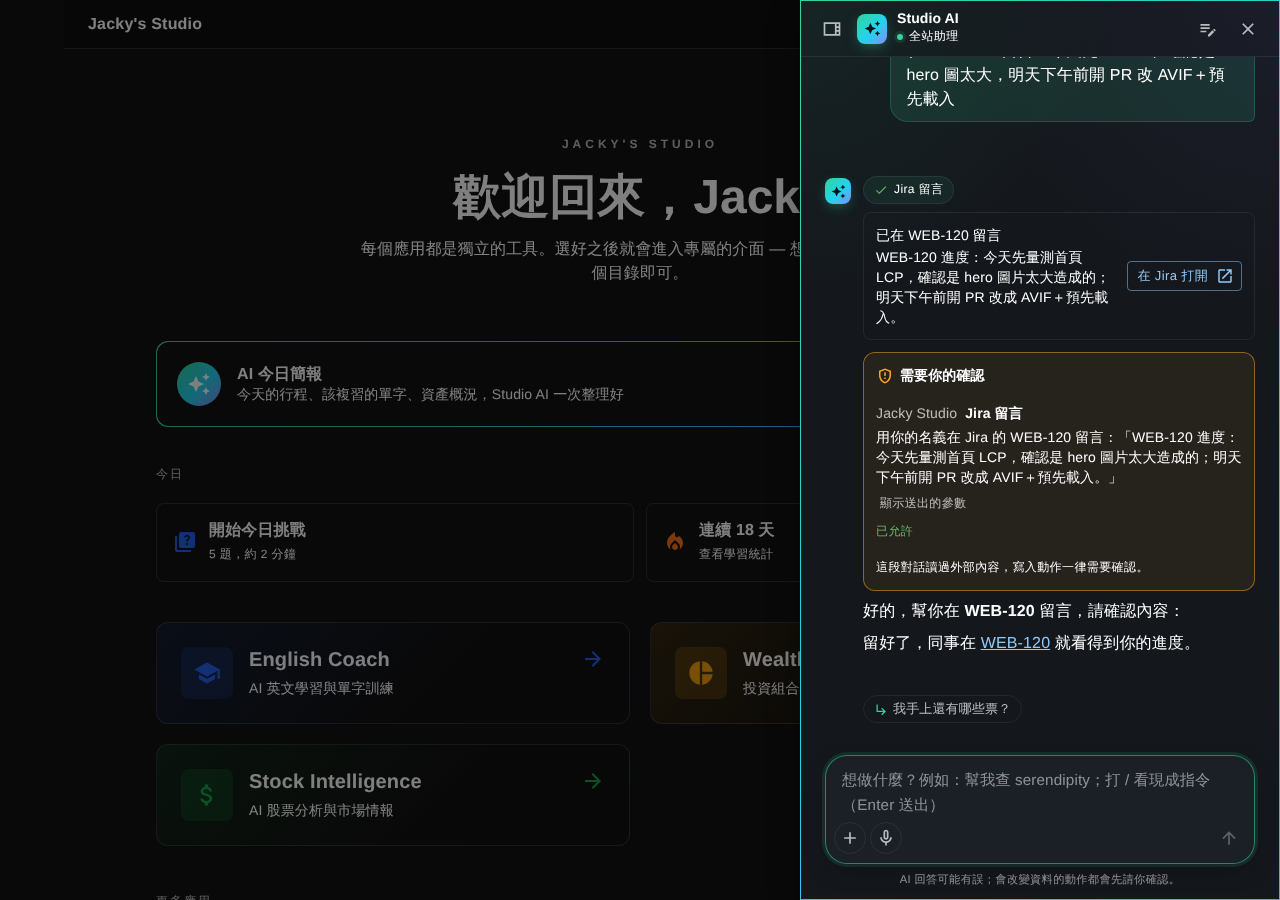
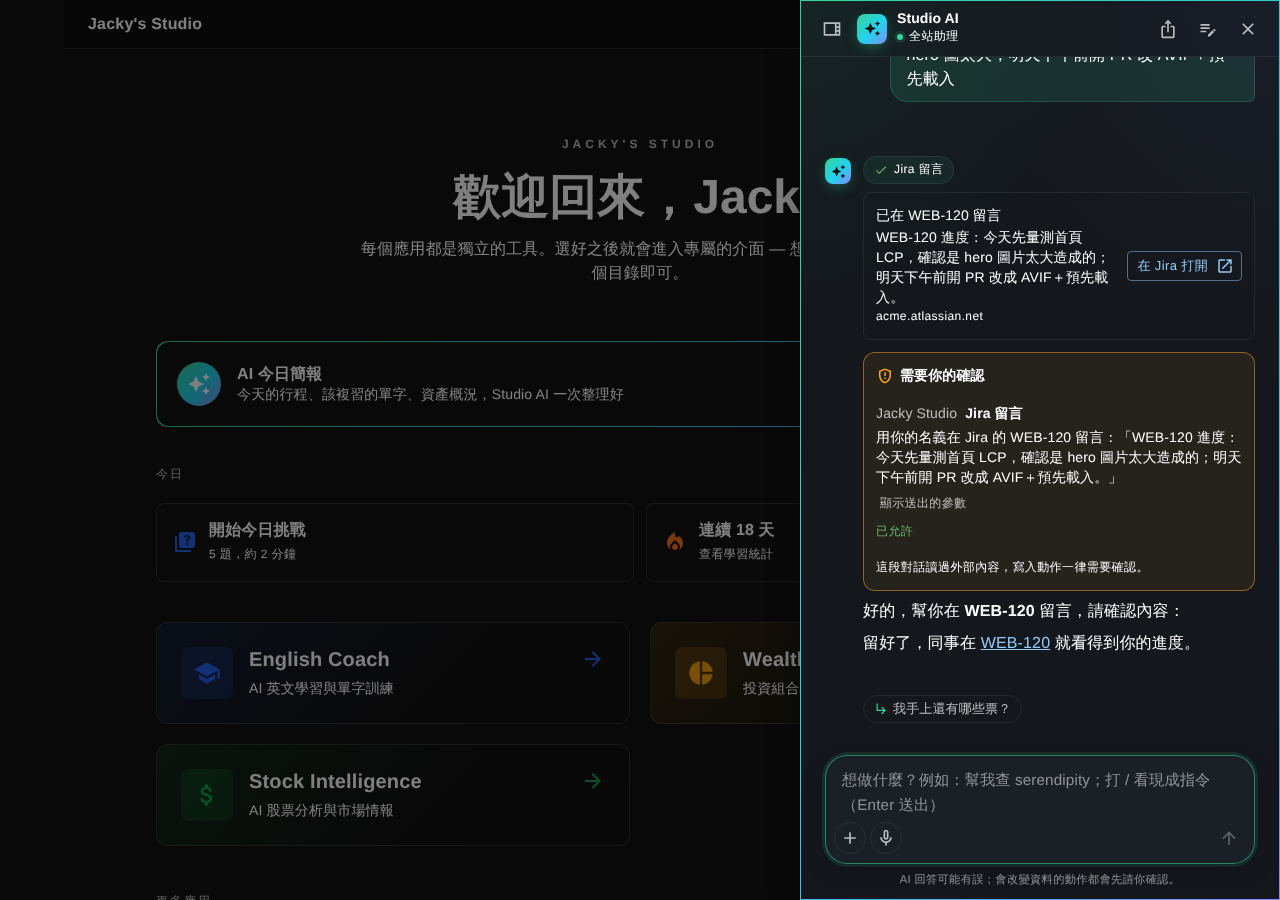
docs(ai-native): D-161、SHOWCASE 第 43 輪、Jira 留言完成的截圖（連結卡片寫出主機）[skip ci]
Claude-Session: https://claude.ai/code/session_01DgXGTtQbv58SJ4y6aMH7fz

Changed region(s): [[0.625, 0.1556, 0.9688, 0.3733], [0.6875, 0.0622, 0.9688, 0.1244]]

diff --git a/docs/ai-native/DECISIONS.md b/docs/ai-native/DECISIONS.md
@@ -163,3 +163,4 @@
 - **D-158（2026-10-27 14:00）第四次合併前巡檢：上傳檔案與 chat 附件（第 42 輪）**：subagent 唯讀。九項裡六項是 master 既有的。已修：(1) 高：**Word／Excel 附件可讓伺服器記憶體爆掉**——xlsx 一格的位置寫 `ZZZZZZ1`（第 3.2 億欄），補齊空格就要 1 GB 以上；zip 解開後的 XML 部分沒有上限（10 MB 的檔可解成好幾 GB）。改成 `OpenSettings.MaxCharactersInPart` 1600 萬字（超過＝讀不出）、超過 XFD（16,384 欄）的儲存格不收、讀到 `MaxChars` 多一點就停（仍標「已截斷」）。(2) 高：**chat 訊息沒有長度上限**——訊息先存才問模型，Anthropic 拒絕太長的請求會退款，但訊息留在 DB，幾十次就能把 Basic 的 2 GB 灌滿，那個對話也再也答不了。改成 `ChatbotController.MaxMessageLength` 2 萬字（UTF-16，跟前端 `length` 一樣）、請求 1 MB，超過在計費前回 400；前端輸入框與編輯框超過時說「訊息太長（N／20,000 字），長文請存成文字檔附加」並不送出（`messageTooLongNote`，測試讀 `ChatbotController.cs` 鎖住同一個數字）。2 萬字約 10 頁，貼長文用附件（會截在 10 萬字）。(3) 高：**匿名的 /data-analysis 上傳**只用 Content-Length 擋，32 MB 的 `{},{},…` 讀成約 1 GB 的物件，之後 `Measure` 才量。改成 `SessionRowsJsonConverter` 邊讀邊用 `Measure` 的同一套估法，超過 `SessionUploadOptions.MaxReadBytes`（128 MB，預設單次上限的兩倍）就是 JSON 錯誤（400）；其他讀法跟預設一樣（null 保留、同名取最後一個）。(4) 中：chat 附件上傳沒有頻率限制 → `chat-attachment-upload` 每人每分鐘 20 次；(5) 中：匿名的 PDF 解鎖沒有頻率限制 → `pdf-unlock` 每個位址每分鐘 10 次。**不改（記在 NEXT）**：Whisper 轉錄一次 1 單位不論長度（要加大小上限＋前端錄音長度上限，會動到考試 UX）；匿名上傳共用 256 MB 預算可被一個人用完 2 小時（要做每人上限與刪除 session，動到既有設計）；PDF 頁數由檔案的 `/Count` 決定（未驗證、Anthropic 每次最多 100 頁）；附件文字不 taint 對話（D-083 的既有決定：附件是使用者自己選的；`remember` 仍一定問）。
 - **D-159（2026-10-27 16:10）巡檢未修的兩個中風險（第 43 輪）**：(1) **錄音轉文字**：Whisper 依分鐘計費、上限 25 MB，但一次只收 1 單位，低位元率的檔可以是好幾小時。改成伺服器 `ConversationPracticeController.MaxAudioBytes` 4 MB（`[RequestSizeLimit]`＋動作內再檢查，在呼叫 Whisper 前 400；審查確認 body 太大時 `[ApiController]` 的 model state 先回 400，`[UsageLimit]` 根本沒收費），前端 `useVoiceRecording` 以 64 kbps 錄（`RECORDING_BITS_PER_SECOND`）、120 秒自動停並照常送出（`MAX_RECORDING_SECONDS`），麥克風提示「點擊開始錄音（最長 2 分鐘）」。兩分鐘約 1 MB，瀏覽器不照位元率錄、多兩倍也在 4 MB 內（測試讀 C# 檔鎖住）。考試的回答一兩句話，2 分鐘不影響使用。仍未做：轉錄失敗時畫面沒有提示（master 既有，只 console.error）。(2) **匿名上傳的個人份額**：一個人 4 次 64 MB 就能把 256 MB 佔滿 2 小時。改成每個呼叫者（登入者的 id，否則 Cloudflare 的位址；`DataAnalysisController.SessionUploadCaller`）最多 `MaxBytesPerCaller` 128 MB（至少一次上傳的上限），`SessionUploadBudget.TryReserve(bytes, caller)` 在同一把鎖裡看個人與總額，到期一起還；超過自己的份額回 429「你上傳的資料已達上限，之前的上傳會在 2 小時內釋放」。不做「新上傳釋放自己舊的 session」（同一人開兩個分頁會互相踢掉）。IPv6 換位址可以多拿份額，有總額與共用的頻率限制兜底，接受。審查（subagent）：無高風險；測試沒真的跨過舊計時器、卸載後的計時器沒驗到，已修。
 - **D-160（2026-10-27 16:20）連結卡片寫出外站的主機（第 43 輪）**：D-157 的未修低風險。連結卡片的標題與說明是工具給的字（connector 讀到的內容可以引導），可以寫「台積電官網」卻連到別的網站；按鈕只寫「開啟」。改成外站連結在標題下方用小字寫主機（`cards/linkHost` 的 `linkHostOf`：`new URL(href).host`，含 port；仿冒字元的網域會是 punycode `xn--…`，不會看起來像真的），本站頁面不寫。只動前端，不影響 `parseToolCard` 的守門（仍只收本站路徑與 https）。
+- **D-161（2026-10-27 16:30）Portfolio 圖表的 tooltip 也跳脫（第 43 輪）**：D-157 的最後一個未修低風險。七個 Portfolio 圖表的函式 formatter 把持股名稱、基準代號、日期、幣別直接拼進 HTML（ECharts 用 innerHTML），只會是自己的資料（自己打的持股名稱），但 client CLAUDE.md「Text that becomes HTML」說資料來的值一律 `escapeHtml`，照做：`seriesName`、`axisValue`、`currency`。`waterfallOption.test` 加一個 `<img onerror>` 的案例。

diff --git a/docs/ai-native/SHOWCASE.md b/docs/ai-native/SHOWCASE.md
@@ -222,6 +222,7 @@ flowchart LR
 - [ ] **Cloudflare**：`/api/mcp`、`/api/oauth/*`、`/.well-known/*` 會被非瀏覽器的 client（Claude Code、mcp-remote）呼叫；若開了 Bot Fight Mode／Super Bot Fight Mode，請替 `apps.jacky-studio.com/api/mcp` 加例外（FOR_JACKY 9）。
 - [ ] **既有帳號連線的行為變更**（D-155）：Google／Microsoft／Atlassian 的 OAuth callback 現在要求回來的瀏覽器登入的是開始授權的那個帳號（防 login CSRF）。正常在 /connectors 按「連線」不受影響；合併後請實際連一次 Google 確認。
 - [ ] **既有功能多了上限**（D-158）：AI 助理一則訊息最多 2 萬字（輸入框會說明、長文改附加文字檔）；附件上傳每人每分鐘 20 次；`/pdf` 解鎖每個位址每分鐘 10 次；Word／Excel 附件解開後單一 XML 超過 1600 萬字就讀不出；/data-analysis 上傳的資料列讀進記憶體超過約 128 MB 就拒絕。正常使用碰不到，若有人回報「訊息太長」或 429 再調。
+- [ ] **再兩個上限**（D-159）：考試的錄音轉文字最多 4 MB（錄音 2 分鐘自動停並照常轉文字，麥克風提示「最長 2 分鐘」，轉文字失敗時輸入框下方會說）；/data-analysis 的匿名上傳每個人（登入者或位址）最多佔 128 MB（app setting `DataAnalysis__SessionUpload__MaxBytesPerCaller`）。
 - [ ] 用量：AI 對話照既有每日預算計費（每則訊息 `UsageCosts.ForChatMessage`、`ask_data` 照 問 AI）。
 
 ## 本機試跑
@@ -289,5 +290,6 @@ flowchart LR
 | 10/27 | 40 | **表格一鍵變圖**：表格卡片「畫成圖」（長條／折線／圓餅、一次一欄、照排序、日期自動折線；ECharts 延遲載入、失敗退回表格；D-153） |
 | 10/27 | 41 | **合併前安全巡檢**：OAuth callback 只接受開始授權的那位使用者（防 login CSRF，MCP 與既有 Google／Microsoft／Atlassian 連線一併修）、自填 MCP server 每個回應最多 8 MB（D-155）；工具清單上限、probe 頻率限制（D-156）；AI 回答的圖片不載入（防資料外洩）、Sankey tooltip 的 stored XSS（D-157） |
 | 10/27 | 42 | **合併前安全巡檢：上傳與附件**：Word／Excel 附件的解壓上限與欄位上限（一格就能吃光記憶體）、chat 訊息 2 萬字（失敗退款但已存，原本可灌爆 DB）、匿名 session 上傳邊讀邊量記憶體、附件上傳與 PDF 解鎖的頻率限制（D-158） |
+| 10/27 | 43 | 巡檢未修的兩項：錄音轉文字 4 MB、錄音 2 分鐘自動停（Whisper 依分鐘計費、一次只收 1 單位）、匿名上傳每人最多佔一半預算（D-159）；錄音失敗不再無聲無息；**外站連結卡片寫出主機**（仿冒網域顯示成 punycode，D-160） |
 
 截至第 6 輪：feature/ai-native 比 master 多 60+ 個 commit（不含 merge）。
